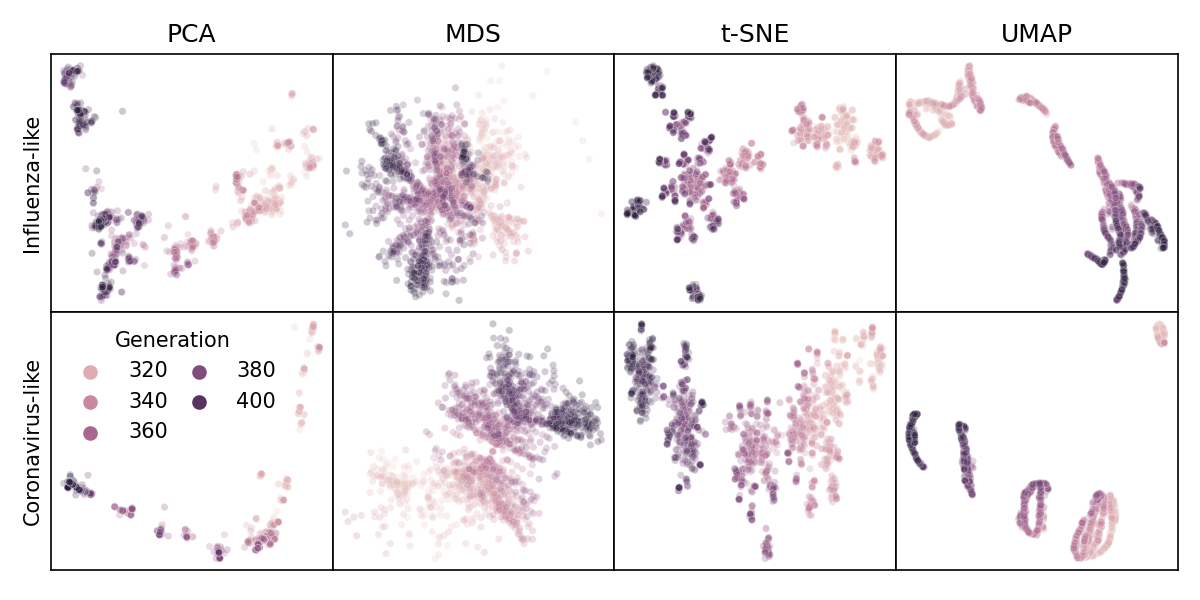
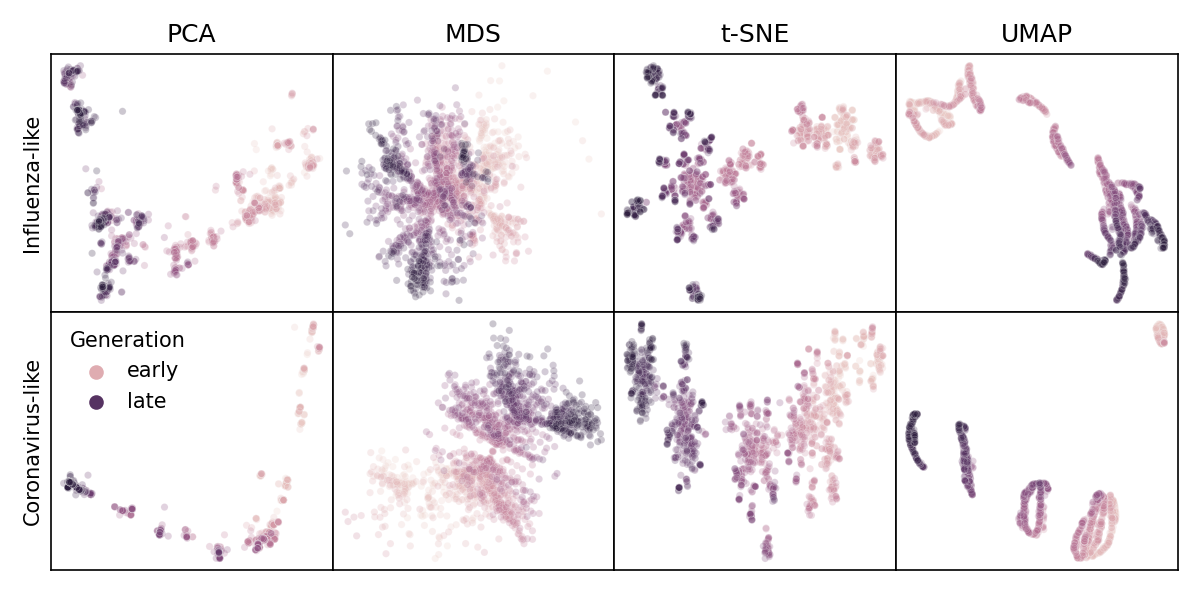
Refine representative embedding plots
Generalizes the legend for the main plot of representative embeddings to
correctly represent "early" and "late" generations instead of showing
specific generation numbers. Those specific numbers were only correct
for the coronavirus-like populations in the bottom row of the figure.

Also, adds a supplemental figure showing the full representative MDS
embeddings with all components, so the reader can see more completely
the linearity preserved by the MDS embedding.

Changed region(s): [[0.0617, 0.54, 0.2467, 0.63], [0.0617, 0.66, 0.2467, 0.72], [0.0617, 0.72, 0.0925, 0.75]]

diff --git a/docs/cartography.tex b/docs/cartography.tex
@@ -479,7 +479,7 @@ These results indicate the limits of t-SNE and UMAP to represent global genetic 
 We inspected representative embeddings for influenza- and coronavirus-like populations that were produced with the optimal parameters above.
 Simulated genomes collected from the same time period tended to map closer in embedding space (Fig.~\ref{fig:simulated-populations-representative-embeddings}).
 Not all embeddings represented the global continuity between simulated generations, however.
-MDS maintained the greatest continuity between generations for both population types.
+MDS maintained the greatest continuity between generations for both population types (\nameref{S3_Fig_simulated_representative_mds_embeddings}).
 In contrast, PCA, t-SNE, and UMAP occasionally placed early and late generations closer together in their embeddings.
 Both t-SNE and UMAP maintained some global structure, with larger groups of the earliest and latest genomes mapping in separate regions of the embeddings such that one could draw a single line to separate them.
 These qualitative results matched our expectations from the optimization of method parameters above.
@@ -492,6 +492,12 @@ These qualitative results matched our expectations from the optimization of meth
   Each point represents a simulated genome colored by its generation with darker values representing later generations.
   The MDS embedding shows the first two of three total dimensions.}
 \label{fig:simulated-populations-representative-embeddings}
+\end{figure}
+
+\begin{figure}[!h]
+% TODO: remove includegraphics commands in final submission; figures must be uploaded separately from the manuscript.
+\includegraphics[width=\columnwidth]{figures/simulated-populations-representative-mds-embeddings.png}
+\caption*{{\bf S3 Fig. Representative MDS embeddings for simulated populations using optimal parameters per pathogen (rows) and showing all three components.}}
 \end{figure}
 
 \subsection*{Embedding clusters recapitulate phylogenetic clades for seasonal influenza A/H3N2}
@@ -640,6 +646,10 @@ TBD.
 \paragraph*{S2 Fig.}
 \label{S2_Fig_simulated_coronavirus_errors}
 {\bf Distribution of mean absolute errors (MAE) between observed and predicted pairwise genetic distances per embedding method parameters for simulated coronavirus-like populations.} Each panel shows boxplots of MAEs for a specific embedding method (PCA, MDS, t-SNE, and UMAP) and a given combination of method parameters. Boxplots reflect median, upper and lower quartiles, and the range of values.
+
+\paragraph*{S3 Fig.}
+\label{S3_Fig_simulated_representative_mds_embeddings}
+{\bf Representative MDS embeddings for simulated populations using optimal parameters per pathogen (rows) and showing all three components.}
 
 \section*{Acknowledgments}
 TBD.
